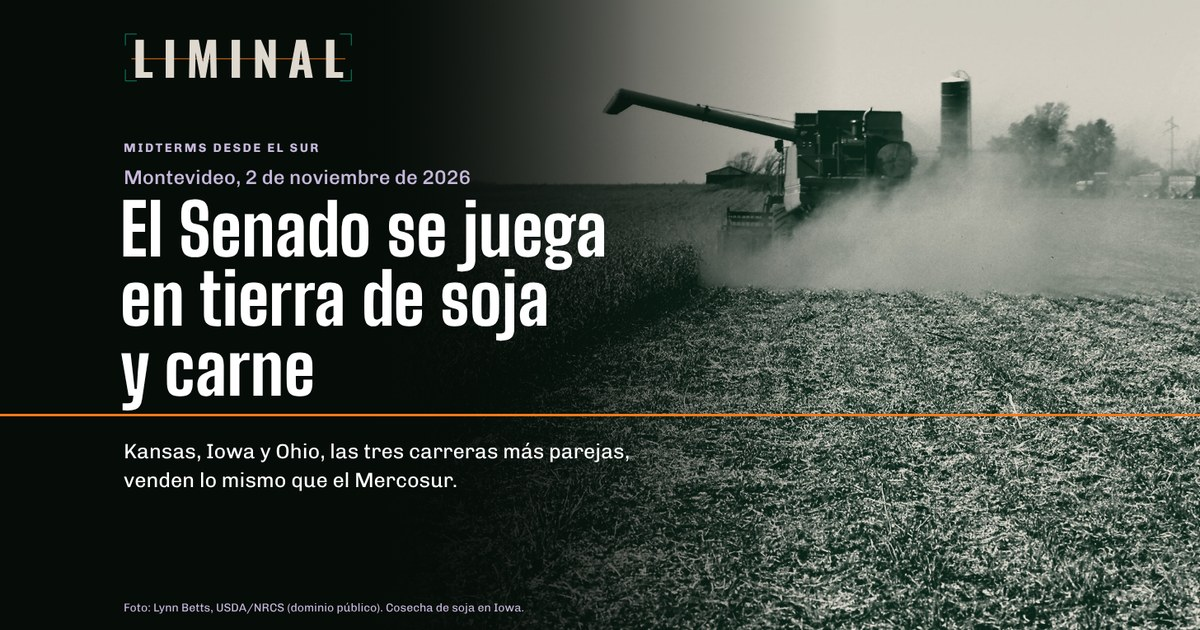
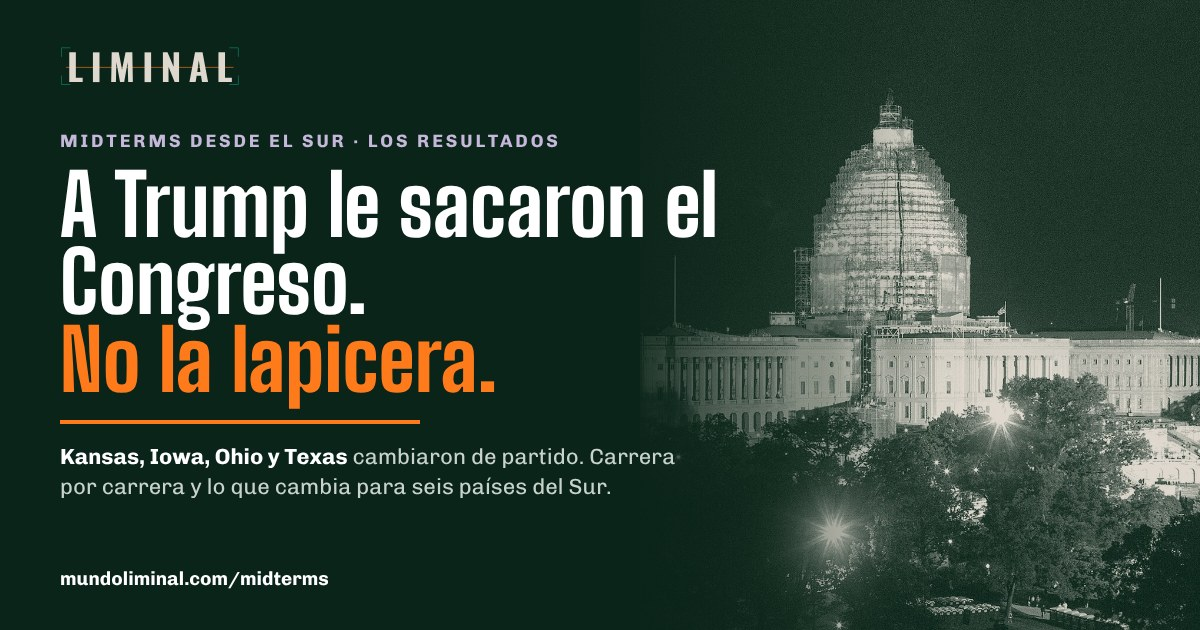
Midterms desde el Sur: la página pasa de simulador a lectura de resultados
Resultados al 4/11 (proyecciones de AP, CBS y NBC), carrera por carrera, lectura por país, aviso de la home e imagen para compartir.

Claude-Session: https://claude.ai/code/session_015po4Ta559aVv5ABHwvEkPH

diff --git a/public/midterms/simulador.html b/public/midterms/simulador.html
@@ -3,12 +3,12 @@
 <head>
 <meta charset="utf-8">
 <meta name="viewport" content="width=device-width,initial-scale=1,viewport-fit=cover">
-<meta name="description" content="Simulador de LIMINAL para las legislativas de EE.UU. del 3 de noviembre de 2026, leídas desde el Cono Sur: armá tu Senado, cuatro escenarios para seis países, el petróleo y la noche en hora de Montevideo.">
-<meta property="og:title" content="Midterms desde el Sur · LIMINAL">
-<meta property="og:description" content="Armá tu Senado, cuatro escenarios para seis países y la noche electoral en hora de Montevideo.">
+<meta name="description" content="Los resultados de las legislativas de EE.UU. del 3 de noviembre de 2026, leídos desde el Cono Sur: el Senado carrera por carrera, qué cambia para seis países, el petróleo y los 61 días que faltan.">
+<meta property="og:title" content="Midterms desde el Sur: los resultados · LIMINAL">
+<meta property="og:description" content="Los demócratas ganaron el Congreso y el Senado se dio vuelta en tierra de soja y carne. Carrera por carrera y lo que cambia para seis países.">
 <meta property="og:type" content="website">
 <style>:root{padding-top:env(safe-area-inset-top,0px);padding-bottom:env(safe-area-inset-bottom,0px)}[hidden]{display:none!important}img{max-width:100%}</style>
-<title>Midterms desde el Sur</title>
+<title>Midterms desde el Sur: los resultados · LIMINAL</title>
 <meta name="claude:viewport-fit-sides" content="cover">
 <link rel="preconnect" href="https://fonts.googleapis.com">
 <link rel="preconnect" href="https://fonts.gstatic.com" crossorigin>
@@ -952,6 +952,228 @@ if(L.EXPORT){
 })();
 
 </script>
+<style id="resultados-css">
+.resrow{display:grid;grid-template-columns:repeat(2,minmax(0,1fr));gap:12px;margin-bottom:18px}
+@media (max-width:700px){.resrow{grid-template-columns:minmax(0,1fr)}}
+.resbox{background:var(--panel-2);border-radius:8px;padding:16px 18px;border-left:6px solid var(--dem);display:grid;gap:6px}
+.resbox small{font-size:12px;font-weight:700;letter-spacing:.12em;text-transform:uppercase;color:var(--meta)}
+.resbox b{font-family:var(--font-display);font-weight:800;font-size:34px;line-height:1}
+.resbox span{font-size:14.5px;color:var(--fg-2);line-height:1.4}
+.hemis-cap{font-size:13px;font-weight:700;letter-spacing:.1em;text-transform:uppercase;color:var(--meta);margin:4px 0 10px}
+.res{font-size:14.5px;font-weight:700;line-height:1.4;padding:9px 11px;border-radius:6px;background:var(--panel);border-left:4px solid var(--dem);color:var(--fg)}
+.res.r{border-left-color:var(--rep)}
+.res.x{border-left-color:var(--ind)}
+.res small{display:block;font-weight:500;color:var(--meta);font-size:12.5px;margin-top:2px}
+.race.res-race{cursor:default}
+.race.res-race:hover{background:var(--panel)}
+.race[data-w="X"]{border-left-color:var(--ind)}
+.race[data-w="X"] .st em{background:var(--ind);color:var(--bg)}
+.race .who b{color:var(--fg)}
+.res-verdict{color:var(--signal)}
+</style>
+<script id="resultados-js">
+/* Modo resultados (4/11/2026): la página deja de proyectar y pasa a leer los resultados. */
+(function(){
+"use strict";
+var L=window.__LIM, $=L.$, $$=L.$$;
+function set(sel,html){var e=$(sel);if(e)e.innerHTML=html;return e}
+function hide(sel){$$(sel).forEach(function(e){e.style.display='none'})}
+function head(id,ey,h2,prose){var s=$('#'+id);if(!s)return;var e=s.querySelector('.eyebrow');if(e&&ey!==null)e.textContent=ey;var h=s.querySelector('h2');if(h&&h2)h.textContent=h2;var p=s.querySelector('.sec-head .prose');if(p&&prose!==null)p.innerHTML=prose}
+document.title='Midterms desde el Sur: los resultados · LIMINAL';
+
+/* Encabezado y portada */
+set('header.top .meta','Montevideo, miércoles 4 de noviembre de 2026 · resultados al 4/11, 8:00');
+set('.hero .eyebrow','LIMINAL · Elecciones legislativas de Estados Unidos, 3 de noviembre · Resultados');
+set('#t-hero','Midterms desde el Sur: los resultados');
+set('.hero .lede','Los demócratas ganaron la Cámara y el Senado, y el Senado se dio vuelta en tierra de soja y carne. Qué pasó en cada carrera y qué cambia para Montevideo, Buenos Aires, Asunción, Santiago, Brasilia y Bogotá. A Donald Trump le sacaron el Congreso, no la lapicera.');
+set('.hero .window .d:first-child','3 nov<small>se votó</small>');
+
+/* 1. ABC */
+head('abc','El ABC','Qué se votó el martes','Las elecciones de mitad de mandato renovaron el Congreso a mitad del período presidencial. Trump no estaba en la boleta, pero sí lo que puede hacer en sus últimos dos años: el Congreso aprueba el presupuesto, controla con sus comisiones, confirma embajadores y es el único que puede declarar una guerra.');
+var fi=$$('#abc .ficha span');
+if(fi.length===4){fi[0].textContent='bancas de la Cámara de Representantes: se renovó entera, como cada dos años';fi[1].textContent='de las 100 bancas del Senado (mandatos de seis años): 22 eran republicanas y 13 demócratas';fi[2].textContent='gobernaciones, entre ellas Florida, Texas, Georgia, Arizona y Míchigan';fi[3].textContent='consultas populares estatales, de la identificación del votante al aborto';}
+
+/* 2. Quién manda */
+head('hoy','Quién manda','Desde el 3 de enero, las dos cámaras son demócratas','Lo proyectaron AP, CBS y NBC. Hasta el 3 de enero sigue en funciones el Congreso actual, republicano en las dos cámaras: son los hemiciclos de abajo, 61 días más.');
+hide('#hoy .seg');
+var hemis=$('#hoy .hemis');
+if(hemis){
+  var rr=document.createElement('div');rr.className='resrow';
+  rr.innerHTML='<div class="resbox"><small>Cámara de Representantes</small><b>Mayoría demócrata</b><span>Proyección de CBS y NBC. El conteo final de bancas sigue: California y otros estados cuentan durante días.</span></div>'+
+               '<div class="resbox"><small>Senado</small><b>Mayoría demócrata</b><span>Proyección de AP y CBS. Kansas, Iowa, Ohio, Texas, Maine y las dos Carolinas pasaron a los demócratas; Alaska sigue sin definirse.</span></div>';
+  hemis.parentNode.insertBefore(rr,hemis);
+  var cap=document.createElement('p');cap.className='hemis-cap';cap.textContent='El Congreso que sigue en funciones hasta el 3 de enero';
+  hemis.parentNode.insertBefore(cap,hemis);
+}
+set('#hemi-src','Hasta el 3 de enero: Cámara 218 republicanos, 214 demócratas, 1 independiente (Kevin Kiley) y 2 vacantes; Senado 53 republicanos y 47 demócratas (incluye a 2 independientes que votan con ellos). Fuentes: Galería de Prensa de la Cámara, Senado de EE.UU. Proyecciones del 3 y 4 de noviembre: AP, CBS News, NBC News.');
+
+/* 3. Modelos */
+head('modelos','Lo que esperaban los números','Los modelos daban favoritos a los demócratas en las dos cámaras, y así fue','Antes de votar, Decision Desk HQ les daba 84% de probabilidad en la Cámara y 64% en el Senado; Kalshi, 93% y 71%. En la boca de urna, la aprobación de Trump quedó en 38%, la más baja registrada para un presidente en una elección de mitad de mandato (CBS News).');
+var ct=$$('#modelos .chart-title');
+if(ct[0])ct[0].textContent='Lo que daban antes de votar: probabilidad de que los demócratas ganaran cada cámara';
+if(ct[1])ct[1].textContent='Aprobación del presidente y bancas que perdió su partido, 1946 a 2022';
+var hs=$$('#modelos .src');
+if(hs[1])hs[1].textContent='Cada punto es una elección de mitad de mandato (1946 a 2022). Aprobación de Gallup y bancas: American Presidency Project, UC Santa Barbara. El punto de 2026 es la proyección previa de Silver Bulletin (37,3% de aprobación al 31/10; pérdida media de 25 bancas): la pérdida real se conoce cuando termine el conteo de la Cámara.';
+
+/* 4. El Senado, carrera por carrera */
+head('senado','Resultados','El Senado, carrera por carrera','Las 14 carreras que podían cambiar de manos, con el resultado. Cambiaron de partido Kansas, Iowa, Ohio, Texas, Maine, Carolina del Norte y Carolina del Sur; ninguna de las bancas demócratas en disputa pasó a los republicanos.');
+set('#verdict','<span class="res-verdict">Mayoría demócrata desde el 3 de enero</span>');
+set('#tally-num','Proyección de AP y CBS');
+hide('#tally-bar');hide('#senado .btns');
+set('#tally-note','Alaska sigue sin definirse: si nadie supera el 50%, el conteo preferencial se hace el 18 de noviembre.');
+var RES=[
+  ['Kansas','D','flip','Adam Hamilton','pastor metodista','Roger Marshall','senador','Banca republicana'],
+  ['Iowa','D','flip','Josh Turek','legislador estatal','Ashley Hinson','representante','Banca republicana'],
+  ['Ohio','D','flip','Sherrod Brown','ex senador','Jon Husted','senador designado','Banca republicana'],
+  ['Texas','D','flip','James Talarico','legislador estatal','Ken Paxton','fiscal general','Banca republicana'],
+  ['Maine','D','flip','Troy Jackson','ex presidente del Senado de Maine','Susan Collins','senadora, que reconoció la derrota','Banca republicana'],
+  ['Carolina del Norte','D','flip','Roy Cooper','ex gobernador','Michael Whatley','ex presidente del Comité Nacional Republicano','Banca republicana'],
+  ['Carolina del Sur','D','flip','Annie Andrews','pediatra','Darline Graham','senadora designada','Banca republicana'],
+  ['Nebraska','R','hold','Pete Ricketts','senador','Dan Osborn','independiente','Banca republicana'],
+  ['Florida','R','hold','Ashley Moody','senadora','Angie Nixon','demócrata','Banca republicana'],
+  ['Míchigan','D','hold','Abdul El-Sayed','médico','Mike Rogers','ex representante','Banca demócrata'],
+  ['Georgia','D','hold','Jon Ossoff','senador','Mike Collins','representante','Banca demócrata'],
+  ['Nuevo Hampshire','D','hold','Chris Pappas','representante','John E. Sununu','ex senador','Banca demócrata'],
+  ['Minnesota','D','hold','Peggy Flanagan','vicegobernadora','Michele Tafoya','republicana','Banca demócrata'],
+  ['Alaska','X','open','Dan Sullivan','senador','Mary Peltola','ex representante','Banca republicana']
+];
+var box=$('#races');
+if(box){
+  box.innerHTML=RES.map(function(r){
+    var lab=r[2]==='open'?'Sin definir':(r[1]==='D'?'Demócrata':'Republicano');
+    var who=r[2]==='open'?'<b>Dan Sullivan</b>, senador, 48,6% · <b>Mary Peltola</b>, ex representante, 47,4%, con cerca del 70% escrutado':'<b>Ganó '+r[3]+'</b>, '+r[4]+', a '+r[5]+', '+r[6];
+    var pr=r[2]==='open'?'Banca republicana · conteo preferencial el 18/11 (Alaska Public Media)':(r[7]+' · '+(r[2]==='flip'?'cambió de partido':'la retuvo')+' · proyección de AP');
+    return '<div class="race res-race" data-w="'+r[1]+'"><span class="st"><b>'+r[0]+'</b><em>'+lab+'</em></span><span class="who">'+who+'</span><span class="pr">'+pr+'</span></div>';
+  }).join('');
+}
+set('#senado .builder .src','Proyecciones: AP (consultadas el 4/11 entre las 6:10 y las 7:40, hora de Uruguay). Ganadores: CBS News, NBC News, Forbes y CBN; Maine: concesión de Susan Collins (Axios, Maine Public); Minnesota: CBS News; Alaska: Alaska Public Media (3/11, 20:46 de Alaska). La lista corrige el nombre de la candidata republicana en Minnesota: fue Michele Tafoya.');
+
+/* 5. Carreras desde el Sur */
+head('carreras','Las carreras que miramos desde acá','El Senado se dio vuelta en tierra de soja y carne','Kansas, Iowa y Ohio, las tres carreras más parejas según Decision Desk HQ, cambiaron de partido: tres estados agrícolas que venden soja, maíz o carne, lo mismo que el Mercosur. También cambiaron Texas, Maine y Carolina del Sur. Nebraska fue la excepción.');
+var NAMES={AR:'Argentina',UY:'Uruguay',BR:'Brasil',PY:'Paraguay',CL:'Chile',CO:'Colombia'};
+var CARDS=[
+  {st:'Kansas',tag:'Carne y trigo',w:'D',res:'Ganó Adam Hamilton, demócrata: cambió de partido',src:'Proyección de AP',r:'Roger Marshall',rr:'senador',d:'Adam Hamilton',dr:'pastor de una megaiglesia',
+   body:'Kansas no elegía a un demócrata para el Senado desde 1932. Es estado triguero y ganadero, como los que protestaron contra el plan de Trump de abrir la puerta a más carne importada.',
+   sig:'El campo dejó de ser territorio seguro de Trump. La presión contra la carne y la soja del Sur ahora tiene voz en los dos partidos.',ch:['AR','UY','BR','PY']},
+  {st:'Iowa',tag:'Soja',w:'D',res:'Ganó Josh Turek, demócrata: cambió de partido',src:'Proyección de AP. Según Forbes, la banca que les dio la mayoría',r:'Ashley Hinson',rr:'representante',d:'Josh Turek',dr:'legislador estatal',
+   body:'En setiembre de 2025, mientras Washington armaba el rescate de Argentina, China le compró soja a la Argentina y no a Iowa. Turek acusó a Hinson de callar ante el acuerdo de carne con Buenos Aires.',
+   sig:'Ganó el candidato que hizo campaña con la soja y con el rescate argentino. Ayudar al presidente Javier Milei tuvo costo en el cinturón agrícola.',ch:['AR','PY','BR','UY']},
+  {st:'Nebraska',tag:'Carne',w:'R',res:'Retuvo Pete Ricketts, republicano',src:'Proyección de AP',r:'Pete Ricketts',rr:'senador',d:'Dan Osborn',dr:'independiente, ex dirigente sindical',ind:true,
+   body:'Ricketts le pidió a la Casa Blanca cambiar el plan de importar "carne extranjera de baja calidad". Trump fue a Nebraska el 5 de octubre a sostenerlo.',
+   sig:'Una de las voces más duras contra la carne importada sigue en el Senado, ahora en minoría. La cuota extra para la carne argentina (80.000 toneladas) vence el 31 de diciembre.',ch:['AR','UY','BR','PY']},
+  {st:'Ohio',tag:'Proteccionismo',w:'D',res:'Ganó Sherrod Brown, demócrata: cambió de partido',src:'Proyección de AP',r:'Jon Husted',rr:'senador designado',d:'Sherrod Brown',dr:'ex senador',
+   body:'Sherrod Brown votó contra el NAFTA en 1993 y escribió "Myths of Free Trade" (2004). Recupera la banca que dejó JD Vance al asumir como vicepresidente.',
+   sig:'Un Senado demócrata no es un Senado librecambista: el arancel tiene defensores en los dos partidos.',ch:['BR','CL','UY','AR']},
+  {st:'Texas',tag:'Petróleo y voto latino',w:'D',res:'Ganó James Talarico, demócrata: cambió de partido',src:'Proyección de AP. Gina Hinojosa le ganó además la gobernación a Greg Abbott (CBS Texas)',r:'Ken Paxton',rr:'fiscal general de Texas',d:'James Talarico',dr:'legislador estatal',
+   body:'Ningún demócrata ganaba una banca de Texas en el Senado desde Lloyd Bentsen, en 1988, ni la gobernación desde Ann Richards, en 1990. Es la capital petrolera que compite con Vaca Muerta y el presal.',
+   sig:'El estado que compite con Vaca Muerta y con nuestra carne (es el primer estado ganadero del país) cambia de interlocutores en Washington y en Austin.',ch:['AR','BR','CO']},
+  {st:'Maine',tag:'La caja de la guerra',w:'D',res:'Ganó Troy Jackson, demócrata: cambió de partido',src:'Susan Collins reconoció la derrota (Axios, Maine Public, 4/11)',r:'Susan Collins',rr:'senadora, preside Asignaciones',d:'Troy Jackson',dr:'ex presidente del Senado de Maine',
+   body:'Collins preside la comisión que reparte el presupuesto federal. El pedido de US$ 87.600 millones para la guerra con Irán, de junio, sigue sin aprobarse.',
+   sig:'Desde el 3 de enero, el dinero de la guerra con Irán pasa por un Senado demócrata.',ch:['UY','PY','CL']},
+  {st:'Carolina del Sur',tag:'El asiento del halcón',w:'D',res:'Ganó Annie Andrews, demócrata: cambió de partido',src:'Proyección de AP',r:'Darline Graham',rr:'senadora designada',d:'Annie Andrews',dr:'pediatra',
+   body:'Lindsey Graham, uno de los senadores que más empujó la guerra con Irán, murió en julio. Su hermana heredó la banca y admitió en un debate no estar "tan informada en seguridad nacional".',
+   sig:'Trump había ganado el estado por casi 18 puntos. La guerra no sumó votos ni en el Sur más trumpista.',ch:['UY','PY','CL']},
+  {st:'Florida · distrito 27',tag:'Miami y las deportaciones',w:'X',res:'Sin proyección: Salazar, adelante por un margen estrecho',src:'AP no la proyectó; puede ir a recuento (WLRN, 3/11)',r:'María Elvira Salazar',rr:'representante',d:'Eliott Rodríguez',dr:'ex presentador de CBS4',
+   body:'Salazar se despegó de Trump en un aviso por las redadas migratorias. Según el Pew Research Center, la aprobación de Trump entre los hispanos cayó a 24%, desde 38% en febrero de 2025.',
+   sig:'Miami es el electorado que más pesa en la política de Washington hacia Venezuela, Cuba y Colombia. Una carrera tan pareja ya es un aviso sobre las deportaciones.',ch:['CO','AR']}
+];
+var cb=$('#cards');
+if(cb){
+  cb.innerHTML=CARDS.map(function(c){
+    var cls=c.w==='D'?'':(c.w==='R'?' r':' x');
+    return '<article class="card"><div class="top"><h3>'+c.st+'</h3><span class="tag">'+c.tag+'</span></div>'+
+      '<p class="res'+cls+'">'+c.res+'<small>'+c.src+'</small></p>'+
+      '<p class="vs"><span style="color:var(--rep)">●</span> <b>'+c.r+'</b>, '+c.rr+'<br><span style="color:'+(c.ind?'var(--ind)':'var(--dem)')+'">●</span> <b>'+c.d+'</b>, '+c.dr+'</p>'+
+      '<p>'+c.body+'</p><p class="sig"><b>Lectura: </b>'+c.sig+'</p>'+
+      '<div class="chips">'+c.ch.map(function(k){return '<span class="chip">'+NAMES[k]+'</span>'}).join('')+'</div></article>';
+  }).join('');
+}
+
+/* 6. Lo que cambia para seis países */
+head('escenarios','Resultado','Se dio el escenario más probable: las dos cámaras, demócratas','Antes de votar, Decision Desk HQ le daba 62% a esta combinación. Esto es lo que cambia con ella, en general y país por país.');
+hide('#scen-tabs');
+set('#scen-name','Las dos cámaras, demócratas: qué cambia');
+set('#scen-list',[
+  '<strong>La guerra:</strong> no alcanza para frenarla por ley: vencer un veto exige 67 senadores y 290 representantes. Sí manejan la caja: desde el 3 de enero, cualquier dinero nuevo para Irán necesita votos demócratas.',
+  '<strong>Los aranceles:</strong> se apoyan en las secciones 301 y 232, facultades que el Congreso ya delegó en el presidente. Cambiarlos exige una ley, y Trump puede vetarla.',
+  '<strong>El control:</strong> las comisiones citan testigos. Si se respeta la antigüedad, la senadora Elizabeth Warren presidiría la de Bancos del Senado y el representante Gregory Meeks, la de Asuntos Exteriores de la Cámara.',
+  '<strong>Los nombramientos:</strong> embajadores, jueces y gabinete pasan a depender de un Senado opositor.'
+].map(function(i){return '<li>'+i+'</li>'}).join(''));
+var CT={
+  UY:{base:'<b>Uruguay</b> le vendió a Estados Unidos un récord de US$ 1.553 millones en 2025, su cuarto destino. Paga 12,5% desde julio, pero más de tres cuartas partes de lo que exporta allá (carne, celulosa, madera) entran exentas. La carne fue el 58% de esas ventas en julio y compite con la cuota ampliada de Argentina. Y Uruguay importa todo su petróleo.',
+      r:'El 12,5% no cambia: lo fija la Casa Blanca. Cambió el humor de los estados que compiten con nuestra carne: Kansas, Iowa y Texas giraron, y Nebraska retuvo a Pete Ricketts, uno de los senadores más duros contra la carne importada. El riesgo inmediato sigue siendo el barril: el Brent a futuro subió 0,7%, a US$ 104,36, el 4/11 por la incertidumbre sobre Irán (Reuters).'},
+  AR:{base:'<b>Argentina</b> tiene un swap de US$ 20.000 millones con el Tesoro (usó 2.500 y ya los devolvió), un acuerdo comercial firmado en febrero y una cuota de carne de 100.000 toneladas cuyo tramo extra vence el 31 de diciembre. Paga 10%. Es el país de la región más atado a la decisión personal de Trump.',
+      r:'El presidente Javier Milei pierde el blindaje del Congreso. La senadora Elizabeth Warren, que en febrero pidió cortar el swap, presidiría la Comisión de Bancos y puede citar al secretario del Tesoro, Scott Bessent. Cancelar el swap exige una ley que supere el veto. La cuota extra vence el 31/12, todavía con el Congreso viejo.'},
+  PY:{base:'<b>Paraguay</b> no figura en la lista del arancel de la Sección 301: no paga recargo. Tiene exención para la carne hasta el 30 de noviembre, firmó con el secretario de Estado, Marco Rubio, un acuerdo de estatus de tropas y compite con Iowa en soja.',
+      r:'La exención para la carne vence el 30 de noviembre, dentro de los 61 días del Congreso viejo, y renovarla lo decide la Casa Blanca. El alineamiento del presidente Santiago Peña con Rubio rinde en el Ejecutivo, que es donde se decide la carne.'},
+  CL:{base:'<b>Chile</b> paga 12,5%, pero el cobre en cátodos, el litio, la plata y el molibdeno entran exentos. El cobre semielaborado paga 50% por la Sección 232. La decisión sobre un arancel al cobre refinado se demoró, según Reuters, por el costo de vida antes de las elecciones.',
+      r:'La Sección 232 no depende del Congreso. Pero nueve de cada diez votantes pusieron el costo de vida entre sus factores principales (boca de urna de CNN): un arancel nuevo que encarece cables y construcción en Estados Unidos es más difícil de vender.'},
+  BR:{base:'<b>Brasil</b> paga 12,5% más 25% por una Sección 301 propia: el 16,5% de lo que vende a Estados Unidos paga 37,5%. Lula da Silva fue reelecto presidente el 25 de octubre, Flávio Bolsonaro tiene visa estadounidense y Reuters reveló una campaña del Departamento de Estado por los Bolsonaro.',
+      r:'Gregory Meeks y Joaquín Castro, que ya le pidieron a Trump dejar de "socavar la democracia de Brasil", presidirían Asuntos Exteriores de la Cámara y su subcomisión del Hemisferio Occidental: pueden citar a Darren Beattie y Ricardo Pita, los funcionarios de la investigación de Reuters. El 37,5% sigue en pie: Lula gana aliados en las salas de audiencia, no en la aduana.'},
+  CO:{base:'<b>Colombia</b> estrenó en agosto como presidente a Abelardo de la Espriella, elogiado por Trump. Sigue descertificada (con dispensa), el ex presidente Gustavo Petro está en la lista de sanciones de la OFAC y Estados Unidos lleva al menos 70 ataques contra lanchas, con 235 muertos hasta el 4 de octubre. Paga 12,5%.',
+      r:'Con mayoría demócrata en el Senado, las votaciones de poderes de guerra sobre los ataques a lanchas tienen otros números (la de Venezuela cayó 50 a 51 en enero, con el desempate de JD Vance), aunque igual chocan con el veto. En Miami, María Elvira Salazar quedó adelante por un margen estrecho y la carrera puede ir a recuento.'}
+};
+var cur='UY',cs=$('#countries');
+function paint(){$$('#countries .ctry').forEach(function(b){b.setAttribute('aria-pressed',b.dataset.c===cur)});set('#ctry-text',CT[cur].base+'<br><br><b style="color:var(--signal)">Después de la elección:</b> '+CT[cur].r)}
+if(cs){cs.innerHTML='';['UY','AR','PY','CL','BR','CO'].forEach(function(k){var b=document.createElement('button');b.className='ctry';b.dataset.c=k;b.type='button';b.textContent=NAMES[k];b.addEventListener('click',function(){cur=k;paint()});cs.appendChild(b)});paint();}
+var sb=$('#escenarios .scen-body h3:not(#scen-name)');if(sb)sb.textContent='La lectura desde';
+set('#always','<b>Lo que no cambió:</b> hasta el 3 de enero gobierna el Congreso actual, republicano en las dos cámaras. En esos 61 días vencen la exención arancelaria a la carne de Brasil y Paraguay (30 de noviembre), el financiamiento del gobierno (11 de diciembre) y la cuota extra de carne argentina (31 de diciembre). La Casa Blanca tiene pendiente el arancel al cobre refinado; Trump le dijo al Financial Times que no tiene planes inmediatos de atacar Irán (Reuters, 4/11).');
+
+/* 7. Petróleo */
+head('petroleo','La guerra que no estaba en la boleta','El barril, el día después',null);
+hide('#oil-seg');hide('#oil .ref');
+var os=$('#oil');if(os)os.setAttribute('aria-label','Precio del Brent fechado en 2026, con la ventana de 61 días');
+set('#oil-intro','La guerra no estaba en la boleta, pero pesó: cerca del 60% de los votantes dijo que atacar a Irán fue "la decisión equivocada" y un tercio, que la guerra fue decisiva para su voto (AP VoteCast). El 4 de noviembre, el Brent a futuro subió 0,7%, a US$ 104,36, por la incertidumbre sobre el próximo paso de Washington (Reuters). Funcionarios citados por Bloomberg describen como "especialmente peligroso" el período que empieza ahora, entre la elección y el Congreso nuevo.');
+set('#oil-note','El gráfico muestra el Brent fechado (físico) de la EIA hasta el 27 de octubre. El contrato a futuro, el que citan los noticieros, es otra referencia y cotiza más abajo: US$ 104,36 el 4/11 a las 7:30 GMT.');
+set('#oil-src','Brent fechado (spot), precio diario, Administración de Información Energética de EE.UU. (EIA), 1/12/2025 a 27/10/2026. Brent a futuro del 4/11: Reuters, vía Business Recorder. AP VoteCast, vía Forbes.');
+
+/* 8. La noche */
+head('noche','Lo que pasó','La noche, en hora de Montevideo','Los cierres de urnas que marcamos el lunes, con lo que pasó en cada uno. Proyecciones de AP, salvo donde se indica.');
+var N2=[
+  ['21:00','19:00','Georgia, Carolina del Sur, Virginia, casi toda Florida y Nuevo Hampshire','Carolina del Sur cambió de partido: ganó Annie Andrews. Jon Ossoff retuvo Georgia y Chris Pappas, Nuevo Hampshire. En Florida, Ashley Moody retuvo la banca; el distrito 27 de María Elvira Salazar quedó sin proyección.',true],
+  ['21:30','19:30','Ohio y Carolina del Norte','Sherrod Brown le ganó a Jon Husted y Roy Cooper a Michael Whatley: dos bancas republicanas que pasaron a los demócratas.',true],
+  ['22:00','20:00','Maine, Pensilvania, casi todo Texas, Míchigan y Kansas','Kansas eligió a su primer senador demócrata desde 1932. Texas eligió a James Talarico, y a Gina Hinojosa como gobernadora. Susan Collins reconoció la derrota ante Troy Jackson. Abdul El-Sayed retuvo Míchigan.',true],
+  ['23:00','21:00','Iowa, Nebraska, Nueva York, Arizona, Minnesota, Wisconsin','Josh Turek ganó Iowa: según Forbes, la banca que les dio la mayoría a los demócratas. Pete Ricketts retuvo Nebraska. Peggy Flanagan retuvo Minnesota.',true],
+  ['02:00','00:00','Alaska (casi todo) y Hawái','Alaska sigue sin definirse: Dan Sullivan, adelante por poco sobre Mary Peltola. Si nadie pasa el 50%, el resultado llega el 18 de noviembre.',false]
+];
+set('#night',N2.map(function(n){return '<div class="hour'+(n[4]?' key':'')+'"><div class="h num">'+n[0]+'<small>'+n[1]+' (Este)</small></div><div class="what"><b>'+n[2]+'</b><p>'+n[3]+'</p></div></div>'}).join(''));
+var nsrc=$('#noche > .src');if(nsrc)nsrc.textContent='Horarios de cierre: Fox News y National Association of Secretaries of State, en hora de Uruguay (UTC−3). Proyecciones: AP; ganadores según CBS News, NBC News, Forbes, CBN y Axios.';
+
+/* 9. Calendario */
+head('calendario','Lo que falta','El Senado ya tiene dueño; Alaska todavía cuenta','Maine no necesitó el voto preferencial: Susan Collins reconoció la derrota. Georgia no va a segunda vuelta. Queda Alaska, y 61 días de Congreso viejo con vencimientos que nos tocan.');
+var C2=[
+  ['3 nov','Se votó: las dos cámaras pasan a los demócratas el 3 de enero.',true],
+  ['18 nov','Alaska hace el conteo de voto preferencial, si nadie superó el 50%; certifica el 25.'],
+  ['30 nov','Vence la exención arancelaria a la carne de Brasil y Paraguay.',true],
+  ['9 dic','La Reserva Federal, que preside Kevin Warsh, vuelve a decidir su tasa.'],
+  ['11 dic','Vence el financiamiento del gobierno: primera pulseada del Congreso saliente.',true],
+  ['31 dic','Vence la cuota extra de 80.000 toneladas para la carne argentina.',true],
+  ['3 ene','Asume el Congreso nuevo. Las comisiones cambian de dueño.',true]
+];
+set('#cal',C2.map(function(c){return '<div'+(c[2]?' class="key"':'')+'><b>'+c[0]+'</b><span>'+c[1]+'</span></div>'}).join(''));
+
+/* Pie y fuentes */
+var fp=$$('footer p');
+if(fp[0])fp[0].innerHTML='La columna que acompaña esta lectura está en <a href="https://mundoliminal.substack.com" target="_blank" rel="noopener">mundoliminal.substack.com</a>.';
+if(fp[1])fp[1].textContent='Una pieza de LIMINAL, análisis internacional hecho desde Montevideo, por Martín Sarthou. Resultados al miércoles 4 de noviembre de 2026, 8:00 (hora de Uruguay): proyecciones de AP, CBS News y NBC News. El conteo oficial sigue y los estados certifican en las próximas semanas.';
+var NS=[
+  ['CBS News, los demócratas ganan el Senado','https://www.cbsnews.com/news/senate-control-democrats-republicans-2026-midterm-elections/'],
+  ['CBS News, resultados de la Cámara y boca de urna','https://www.cbsnews.com/live-updates/house-election-results-2026/'],
+  ['Forbes, resultados en vivo (4/11)','https://www.forbes.com/sites/saradorn/2026/11/03/midterm-election-results-live-updates-democrats-win-senate-in-stunning-rout/'],
+  ['CBN, las bancas que cambiaron de partido','https://cbn.com/news/politics/update-democrats-flip-6-seats-take-control-us-senate'],
+  ['Axios, Susan Collins reconoce la derrota (4/11)','https://www.axios.com/2026/11/04/maine-senate-results-collins-jackson'],
+  ['NBC News, Pete Ricketts retiene Nebraska','https://www.nbcnews.com/politics/2026-election/pete-ricketts-nebraska-senator-gop-win-dan-osborn-election-rcna603328'],
+  ['CBS News, Peggy Flanagan gana Minnesota','https://www.cbsnews.com/news/minnesota-2026-senate-flanagan-tafoya/'],
+  ['CBS Texas, Gina Hinojosa le gana a Greg Abbott','https://www.cbsnews.com/texas/news/texas-governor-election-2026-greg-abbott-gina-hinojosa-results/'],
+  ['Alaska Public Media, Sullivan y Peltola (3/11)','https://alaskapublic.org/news/politics/elections/2026-11-03/peltola-takes-early-lead-in-alaskas-u-s-senate-race'],
+  ['WLRN, el distrito 27 de Florida puede ir a recuento (3/11)','https://www.wlrn.org/government-politics/2026-11-03/salazar-rodriguez-27th-recount'],
+  ['Business Recorder (Reuters), el petróleo el 4/11','https://www.brecorder.com/news/40447343/oil-rises-on-iran-war-uncertainty-after-trumps-republicans-are-routed-in-midterms']
+];
+var ol=$('#sources');
+if(ol){ol.insertAdjacentHTML('afterbegin',NS.map(function(s){return '<li><a href="'+s[1]+'" target="_blank" rel="noopener">'+s[0]+'</a></li>'}).join(''));}
+})();
+</script>
+
 <script>
 (function(){if(!document.documentElement.classList.contains('embed')||window.parent===window)return;
 var last=0;function send(){var h=Math.ceil(document.documentElement.scrollHeight);if(Math.abs(h-last)>2){last=h;try{parent.postMessage({liminalMidterms:h},'*')}catch(e){}}}
